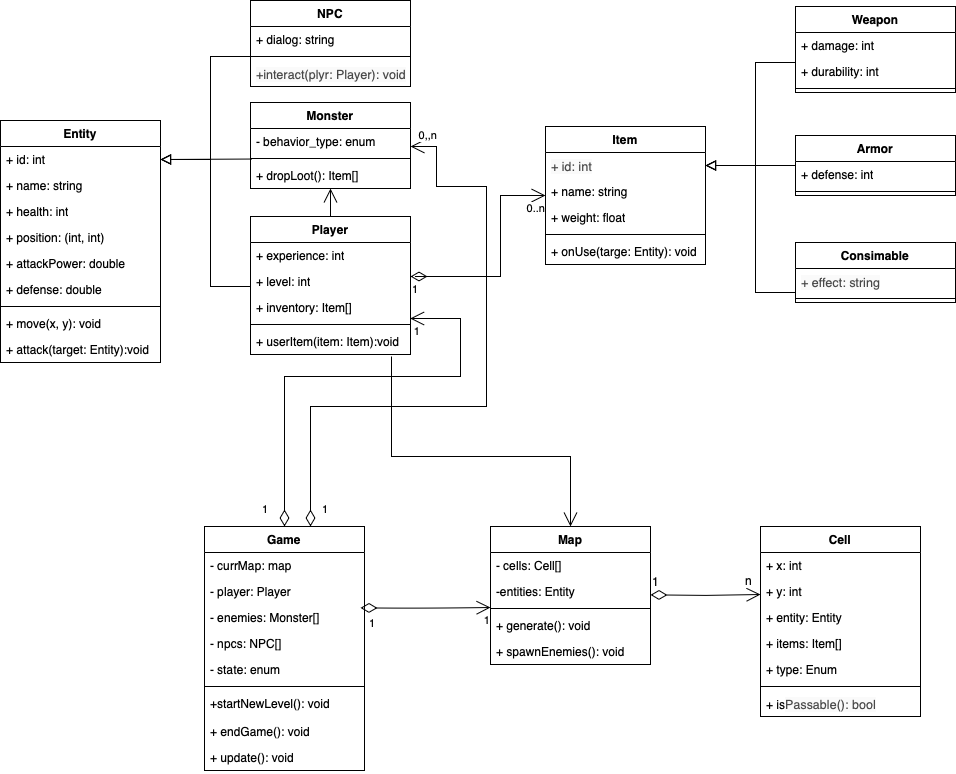
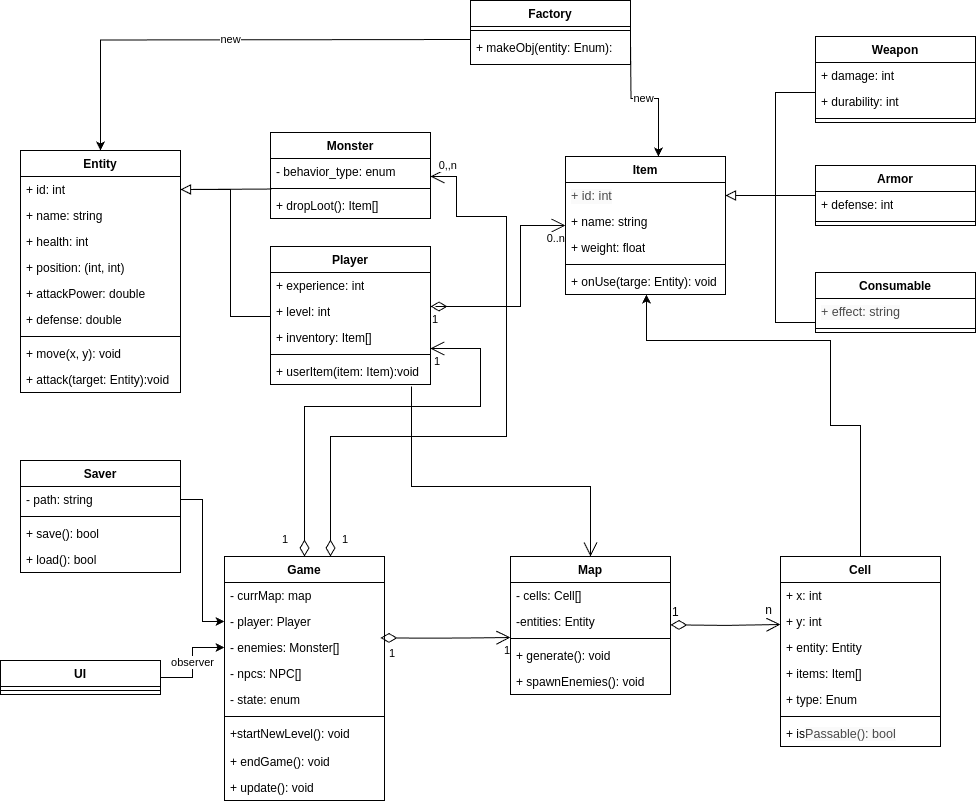
change diagrams  and readme

diff --git a/README.md b/README.md
@@ -67,13 +67,11 @@
 
 Компоненты:
 
-    GameEngine — основной управляющий модуль
+    Game — основной управляющий модуль
 
     MapGenerator — генерация уровней
 
     EntitySystem — игрок, монстры, NPC
-
-    TurnManager — контроль пошаговости
 
     UIManager — отображение интерфейса
 
@@ -91,19 +89,17 @@
 
 7. Взаимодействия и состояния
 ```
-Player → UIController: нажимает кнопку "атаковать"
-UIController → GameEngine: sendCommand("ATTACK", target)
-GameEngine → TurnManager: beginPlayerTurn()
+Player -> UI: нажимает кнопку "атаковать"
+UI -> Game: sendCommand("ATTACK", target)
 
-TurnManager → CombatSystem: resolveAttack(player, target)
-CombatSystem → Monster: takeDamage(amount)
+Game -> Player: resolveAttack(player, target)
+Game -> Monster: takeDamage(amount)
 
-Monster → Monster: updateHP(-amount)
-Monster → GameEngine: if (hp <= 0) then markDead()
+Monster -> Monster: updateHP(-amount)
+Monster -> Game: if (hp <= 0) then markDead()
 
-GameEngine → MapManager: removeEntity(monster)
-GameEngine → LootSystem: dropLoot(monster)
-GameEngine → TurnManager: endPlayerTurn()
+Game -> Map: removeEntity(monster)
+Game -> Item: dropLoot(monster)
 ```
 Конечный автомат состояний:
 
@@ -143,17 +139,14 @@ Item:
 ```
 9. Паттерны проектирования
 ```
-    Composite — для сущностей (Entity + компоненты)
+    Factory — создание игрока и врагов, предметов. Фабрика - статический класс со статическим методом создания сущностей через Enum. Используется классом Game.
 
-    Factory — создание врагов, предметов
+    Observer — подписка UI на изменения (HP, инвентарь). Когда происходит обновление состояния игрока и при взаимодействии с интерфейсом - заново отрисовываются UI объекты (Game вызывает метод update у UI, push модель). 
 
-    Observer — подписка UI на изменения (HP, инвентарь)
+    State — состояния игрока/врагов/карты. При сохранении игры (и закрытии игры) все объекты сериализуются на диск в файл. При открытии игры все сущности загружаются из сохраненного состояния.
 
-    State — состояния игрока/врагов
+    Singleton — Game, UI manager, SaveSystem. Все эти объекты имеют единственный instance и глобальную видимость.
 
-    Strategy — поведение врагов (разные типы поведения)
-
-    Singleton — TurnManager, GameEngine, UI manager, SaveSystem
 ```
 
 10. План приемки
